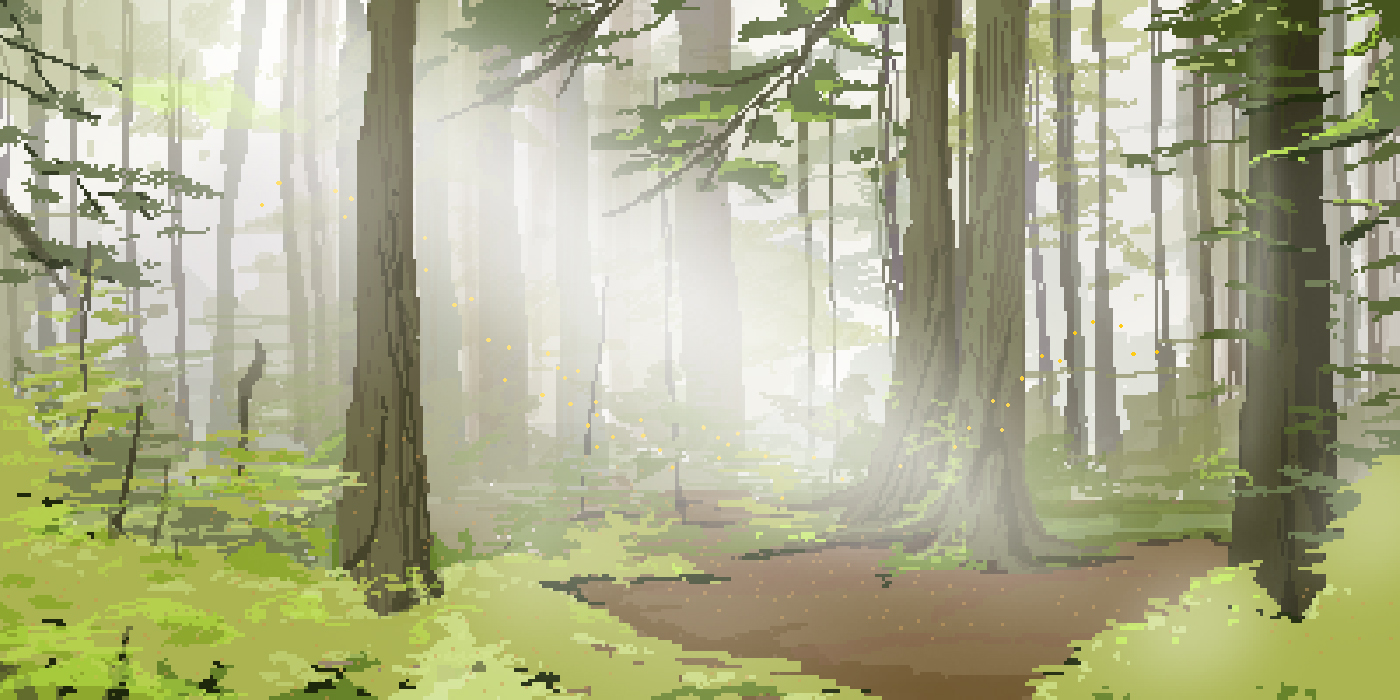
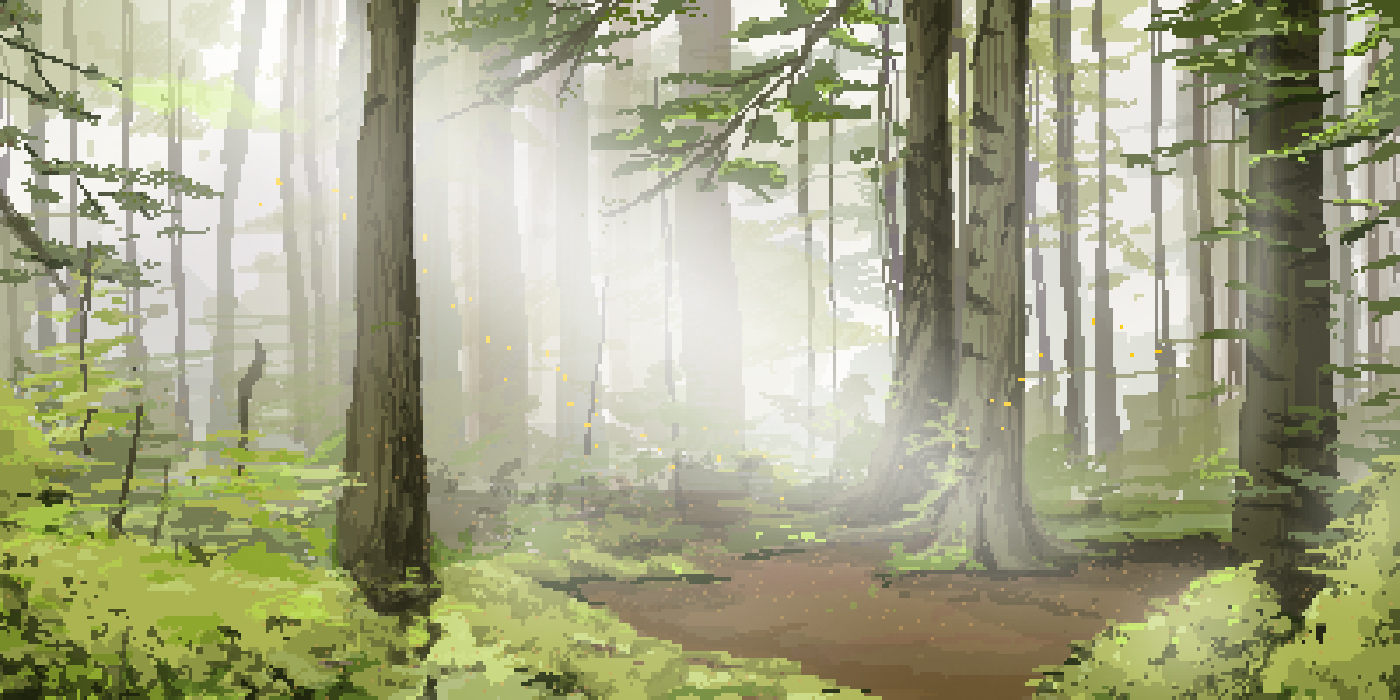
Added moving between locations

diff --git a/static/css/style.scss b/static/css/style.scss
@@ -20,11 +20,15 @@ body {
 
 #background {
     width: 100%;
-    background: url('/static/images/beach.jpg');
     background-size: cover;
     position: absolute;
     z-index: -1;
+    transition: background-image 0.7s ease-in-out;
 }
+
+#background.beach { background-image: url('/static/images/beach.jpg'); }
+#background.forest { background-image: url('/static/images/forest.jpg'); }
+#background.cave { background-image: url('/static/images/cave.jpg'); }
 
 a {
     text-decoration: none;
@@ -63,7 +67,7 @@ a {
                 color: white;
                 font-size: 36px;
                 padding: 0 20px;
-                -webkit-transition: 0.2s all;
+                transition: 0.2s all;
                 opacity: 0.8;
             }
 
@@ -134,7 +138,7 @@ a {
         }
 
         .content {
-            padding: 15px;
+            padding: 10px;
             overflow: auto;
         }
     }
@@ -231,13 +235,19 @@ a {
                 color: white;
                 text-shadow: 0 0 2px black;
                 cursor: help;
+                margin-right: 10px;
+                background-size: 40px 40px;
+                background-repeat: no-repeat;
+                background-position: center center;
             }
 
             .firewood { background-image: url('/static/images/branches1.png'); }
+            .coconut { background-image: url('http://icons.iconarchive.com/icons/fi3ur/fruitsalad/256/coconut-icon.png'); }
+            .seagrass { background-image: url('http://img2.wikia.nocookie.net/__cb20130227113414/farmville/images/4/4b/Seaweed-icon.png'); }
         }
     }
 
-    $diff: 68px;
+    $diff: 72px;
     $topHeight: 150px;
     #log {
         width: 800px;

diff --git a/static/js/views/HomeView.js b/static/js/views/HomeView.js
@@ -20,6 +20,9 @@ define(function(require) {
         initialize: function() {
             this.state = new HomeState();
             this.listenTo(this.state, 'change', this.changeTab);
+            this.listenTo(GAME.me, 'change', function() {
+                $('#background').attr('class', GAME.me.get('location'));
+            });
 
             $(document).keyup(_.bind(function(e) {
                 this.onKeyup(e.which);

diff --git a/static/js/templates/actions.html b/static/js/templates/actions.html
@@ -5,7 +5,7 @@
     <h2>{{@key}}</h2>
     <ul>
       {{#each this}}
-      <li><button class="btn btn-sm btn-primary action" data-action="{{name}}">{{label}} ({{duration}})</button></li>
+      <li><button class="btn btn-sm btn-primary action" data-action="{{name}}" title="{{duration}} seconds">{{label}}</button></li>
       {{/each}}
     </ul>
   </div>

diff --git a/static/js/views/ItemsView.js b/static/js/views/ItemsView.js
@@ -13,7 +13,7 @@ define(function(require) {
         render: function() {
             var items = GAME.me.get('items'); 
             for (var k in items) {
-                items[k.toLowerCase()] = items[k];
+                items[k.toLowerCase().replace(' ', '')] = items[k];
                 delete items[k];
             }
 

diff --git a/static/js/app.js b/static/js/app.js
@@ -97,5 +97,7 @@ define(function(require){
             GAME.actions.fetch();
             appRouter.navigate('home', {trigger: true});
         }
+
+        $('#background').attr('class', GAME.me.get('location'));
     });
 });

diff --git a/static/js/templates/log.html b/static/js/templates/log.html
@@ -2,7 +2,7 @@
 <div class="content">
   <ul>
     {{#each log}}
-    <li>{{this}}</li>
+    <li>{{{this}}}</li>
     {{/each}}
   </ul>
 </div>

diff --git a/static/js/templates/stats.html b/static/js/templates/stats.html
@@ -2,6 +2,5 @@
 <div class="content">
   <ul>
     <li>Food: {{food}}</li>
-    <li>Location: {{location}}</li>
   </ul>
 </div>

diff --git a/actions.py b/actions.py
@@ -82,7 +82,34 @@ def on_action(user):
 #### Individual actions ####
 
 
-## Cook
+## Food
+def forage_callback(user):
+    chance = random.random()
+    if user.location == 'LOCATION_BEACH':
+        if chance < 0.33:
+            user.add_item('ITEM_COCONUT')
+            user.add_to_log('ACT_FORAGE_SUCCESS_COCONUTS')
+        elif chance < 0.66:
+            user.add_item('ITEM_SEA_GRASS')
+            user.add_to_log('ACT_FORAGE_SUCCESS_SEA_GRASS')
+        else:
+            user.add_item('ITEM_CLAM')
+            user.add_to_log('ACT_FORAGE_SUCCESS_CLAMS')
+    else:
+        if chance < 0.5:
+            user.add_item('ITEM_BERRIES')
+            user.add_to_log('ACT_FORAGE_SUCCESS_BERRIES')
+        else:
+            user.add_item('ITEM_FLOWERS')
+            user.add_to_log('ACT_FORAGE_SUCCESS_FLOWERS')
+        
+    return True
+
+def forage_verify(user):
+    return True
+
+register_action('ACT_FORAGE', 3, 'CATEGORY_FOOD', forage_callback, forage_verify)
+
 def cook_callback(user):
     user.food += 10
     user.remove_item('ITEM_FIREWOOD')
@@ -112,6 +139,35 @@ def firewood_verify(user):
 
 register_action('ACT_FIREWOOD', 3, 'CATEGORY_MATERIALS', firewood_callback, firewood_verify)
 
+
+## Movements
+def move_forest_callback(user):
+    user.location = 'LOCATION_FOREST'
+    user.add_to_log('ACT_MOVE_FOREST_SUCCESS')
+    return True
+
+def move_forest_verify(user):
+    return user.location != 'LOCATION_FOREST' and user.has_done_actions(['ACT_FORAGE'])
+
+def move_cave_callback(user):
+    user.location = 'LOCATION_CAVE'
+    user.add_to_log('ACT_MOVE_CAVE_SUCCESS')
+    return True
+
+def move_cave_verify(user):
+    return user.location != 'LOCATION_CAVE' and user.has_done_actions(['ACT_MOVE_FOREST'])
+
+def move_beach_callback(user):
+    user.location = 'LOCATION_BEACH'
+    user.add_to_log('ACT_MOVE_BEACH_SUCCESS')
+    return True
+
+def move_beach_verify(user):
+    return user.location != 'LOCATION_BEACH'
+
+register_action('ACT_MOVE_BEACH', 3, 'CATEGORY_MOVEMENT', move_beach_callback, move_beach_verify)
+register_action('ACT_MOVE_FOREST', 3, 'CATEGORY_MOVEMENT', move_forest_callback, move_forest_verify)
+register_action('ACT_MOVE_CAVE', 3, 'CATEGORY_MOVEMENT', move_cave_callback, move_cave_verify)
 
 
 #### Action Constraints ####

diff --git a/constants.py b/constants.py
@@ -8,9 +8,9 @@ C = {
 
 
     # Locations
-    'LOCATION_START': 'empty beach',
-    'LOCATION_FOREST': 'dense rainforest',
-    'LOCATION_RUINS': 'scattered ruins',
+    'LOCATION_BEACH': 'beach',
+    'LOCATION_FOREST': 'forest',
+    'LOCATION_CAVE': 'cave',
 
 
 # --------------------------------------------
@@ -20,11 +20,15 @@ C = {
     # Categories
     'CATEGORY_FOOD': 'Food',
     'CATEGORY_MATERIALS': 'Materials',
+    'CATEGORY_MOVEMENT': 'Movement',
 
     # Move
-    'ACT_MOVE_FOREST': 'You walk toward the trees and find yourself in a dense rainforest. The sound of running water flows from afar.',
-    'ACT_MOVE_RUINS': 'You find yourself in the scattered remains of an ancient building. Bricks and rotted wood lie buried in the sand.',
-    'ACT_MOVE_START': 'You return to the beach and the ebbing shore.',
+    'ACT_MOVE_FOREST': 'Move to forest',
+    'ACT_MOVE_FOREST_SUCCESS': 'You walk toward the trees and find yourself in a dense rainforest. The sound of running water flows from afar.',
+    'ACT_MOVE_CAVE': 'Move to cave',
+    'ACT_MOVE_CAVE_SUCCESS': 'You find yourself at the opening to an enormous cave&mdash;you dare not venture further.',
+    'ACT_MOVE_BEACH': 'Move to beach',
+    'ACT_MOVE_BEACH_SUCCESS': 'You return to the beach and the ebbing shore.',
 
     # Scavenging / Foraging
     'ACT_FIREWOOD': 'Gather wood',

diff --git a/server.py b/server.py
@@ -166,7 +166,7 @@ def socket(ws):
             user.current_action = '{}'
             user.log = '[]'
             user.items = '{}'
-            user.location = 'LOCATION_START'
+            user.location = 'LOCATION_BEACH'
             user.add_to_log('GAME_START')
             db.session.add(user)
             db.session.flush()
